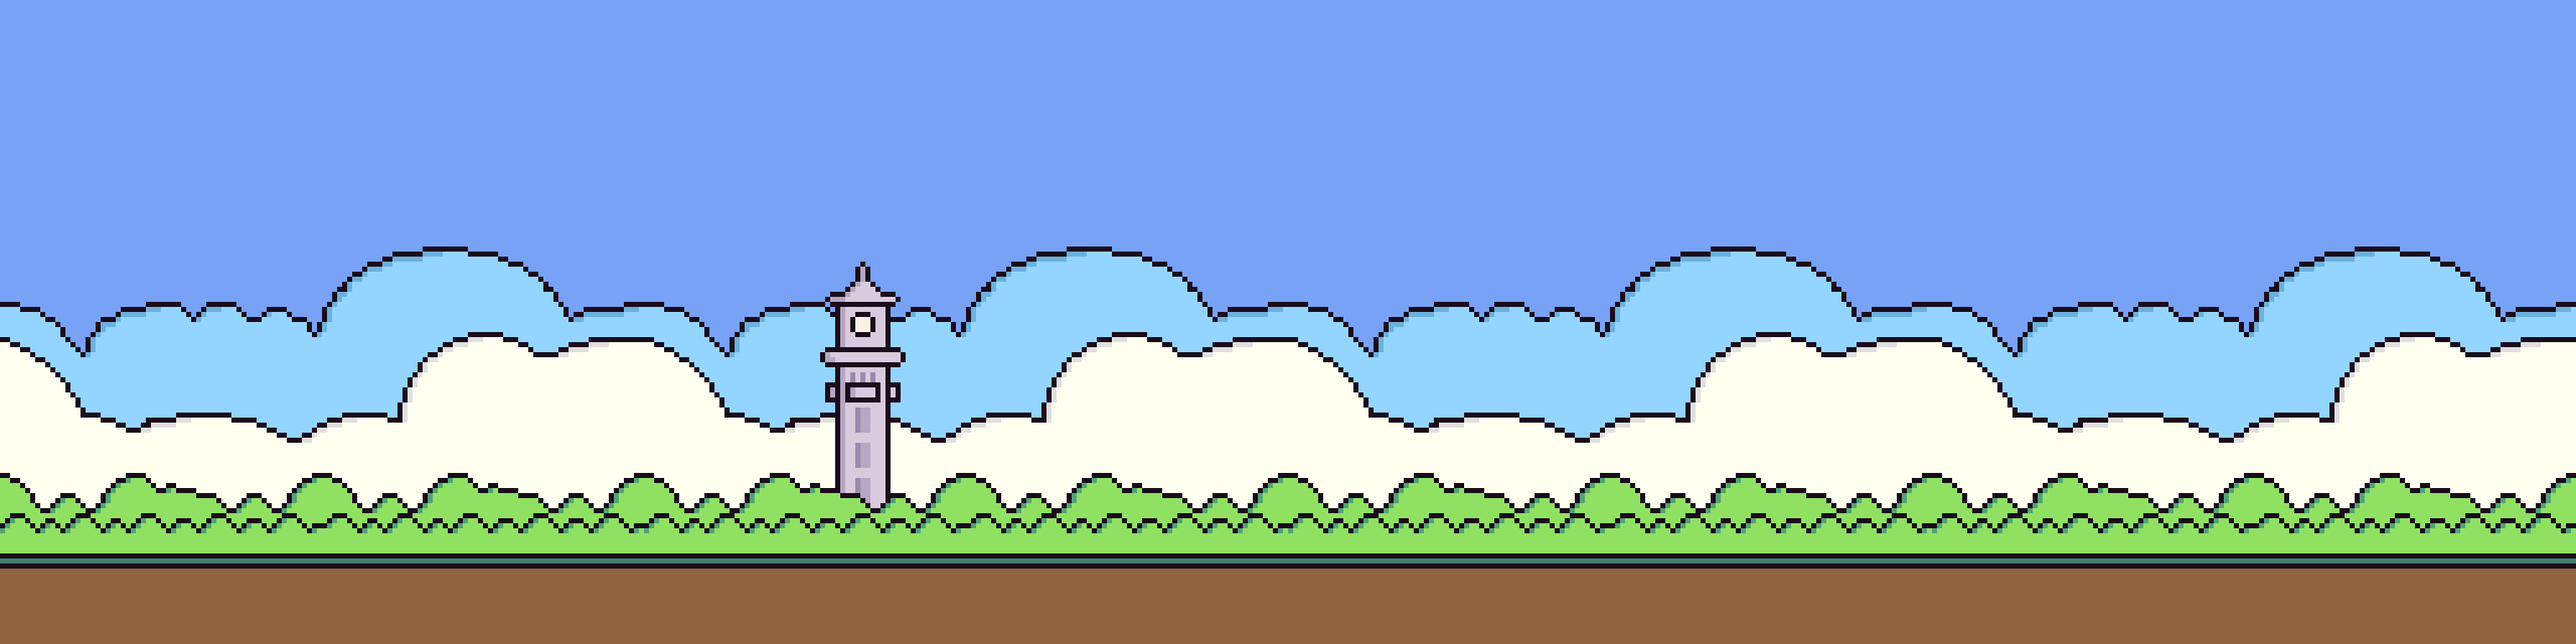
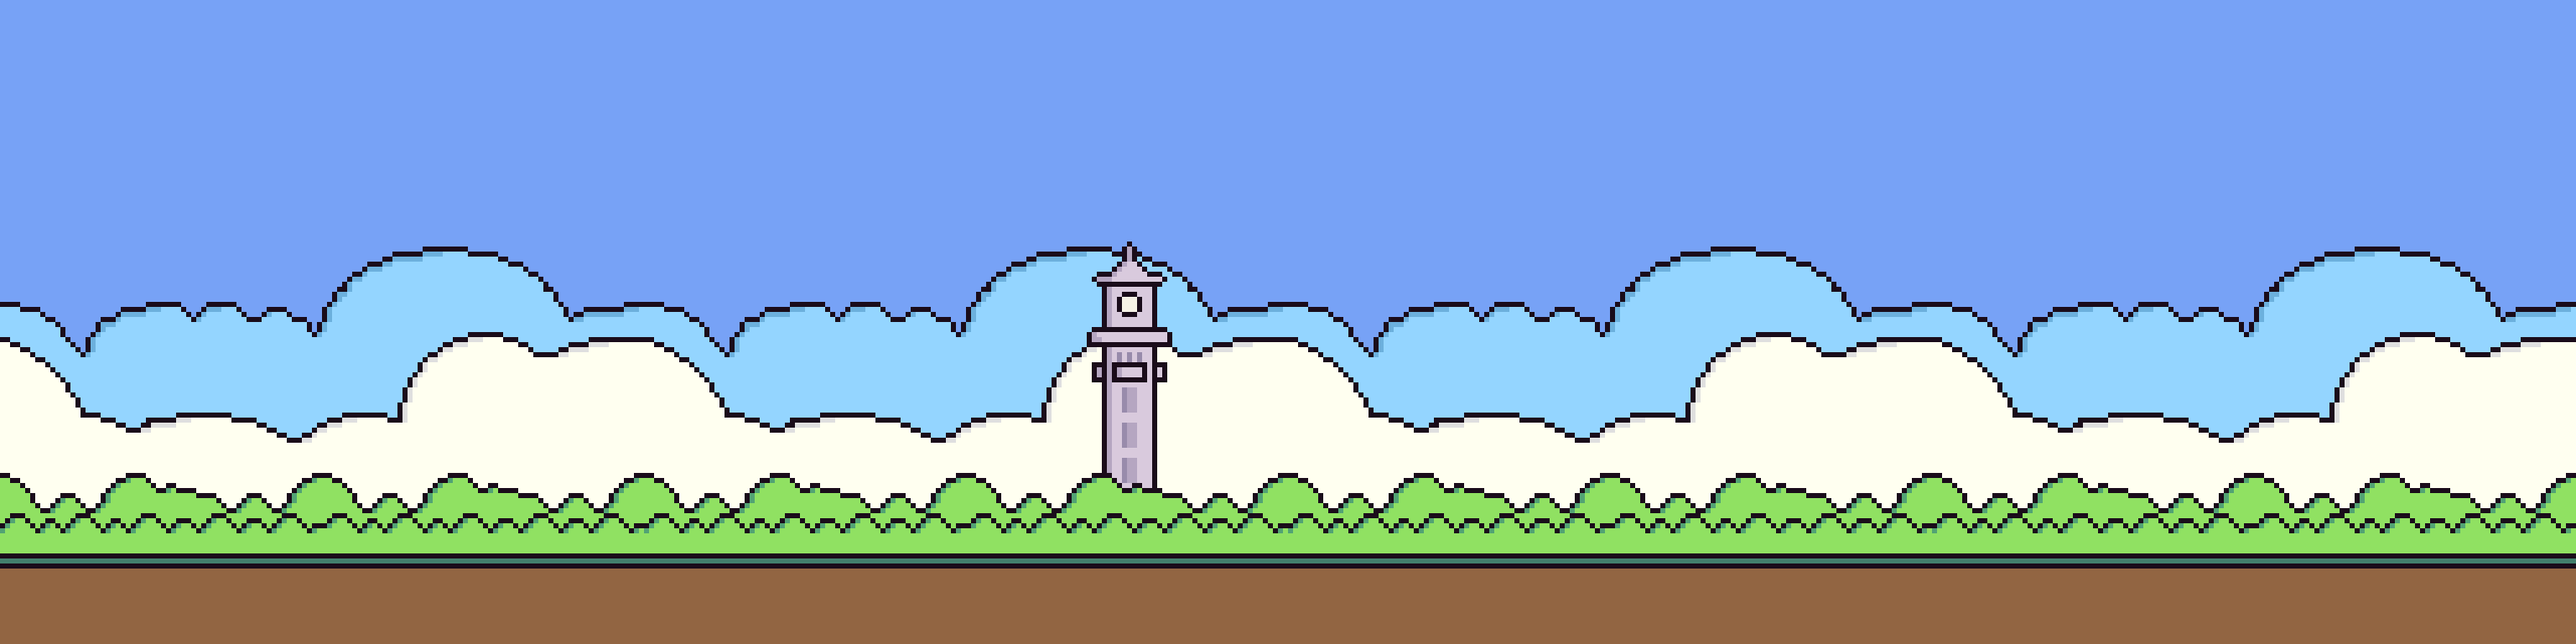
Fondo de nieve

Changed region(s): [[0.4062, 0.4062, 0.4688, 0.75], [0.3125, 0.4062, 0.375, 0.7812]]

diff --git a/src/game.c b/src/game.c
@@ -22,7 +22,7 @@ Game Game_new() {
     game.duck = Duck_new();
     game.costume = (rand()%4)*2;
     game.background = Background_new();
-    game.scenery = (rand()%2);
+    game.scenery = (rand()%3);
     game.music = Music_new();
     for(int i = 0; i < PIPE_NUMBER; i++) {
         game.pipeline[i] = Pipeline_new(i);    
@@ -135,7 +135,9 @@ void Game_delete(Game game) {
     quit_Audio(game);
     SDL_FreeSurface(game.pipeline->upper.image);
     SDL_FreeSurface(game.pipeline->lower.image);
-    SDL_FreeSurface(game.background.image[1]);
+    for(int i=0; i<3; ++i){
+       SDL_FreeSurface(game.background.image[i]); 
+    }
     for(int i=0; i<8; ++i){
         SDL_FreeSurface(game.duck.image[i]);
     }

diff --git a/src/background.c b/src/background.c
@@ -9,6 +9,7 @@ Background Background_new() {
     }*/
     background.image[0] =  IMG_Load("../assets/background1.png");
     background.image[1] =  IMG_Load("../assets/background2.png");
+    background.image[2] =  IMG_Load("../assets/background3.png");
     background.position.x = 0;
     background.position.y = 0;
     background.position.w = 768;

diff --git a/src/background.h b/src/background.h
@@ -5,7 +5,7 @@
 #include <SDL2/SDL_image.h>
 
 typedef struct {
-    SDL_Surface *image[2];
+    SDL_Surface *image[3];
     SDL_Rect position;
     float vel;
 } Background;
